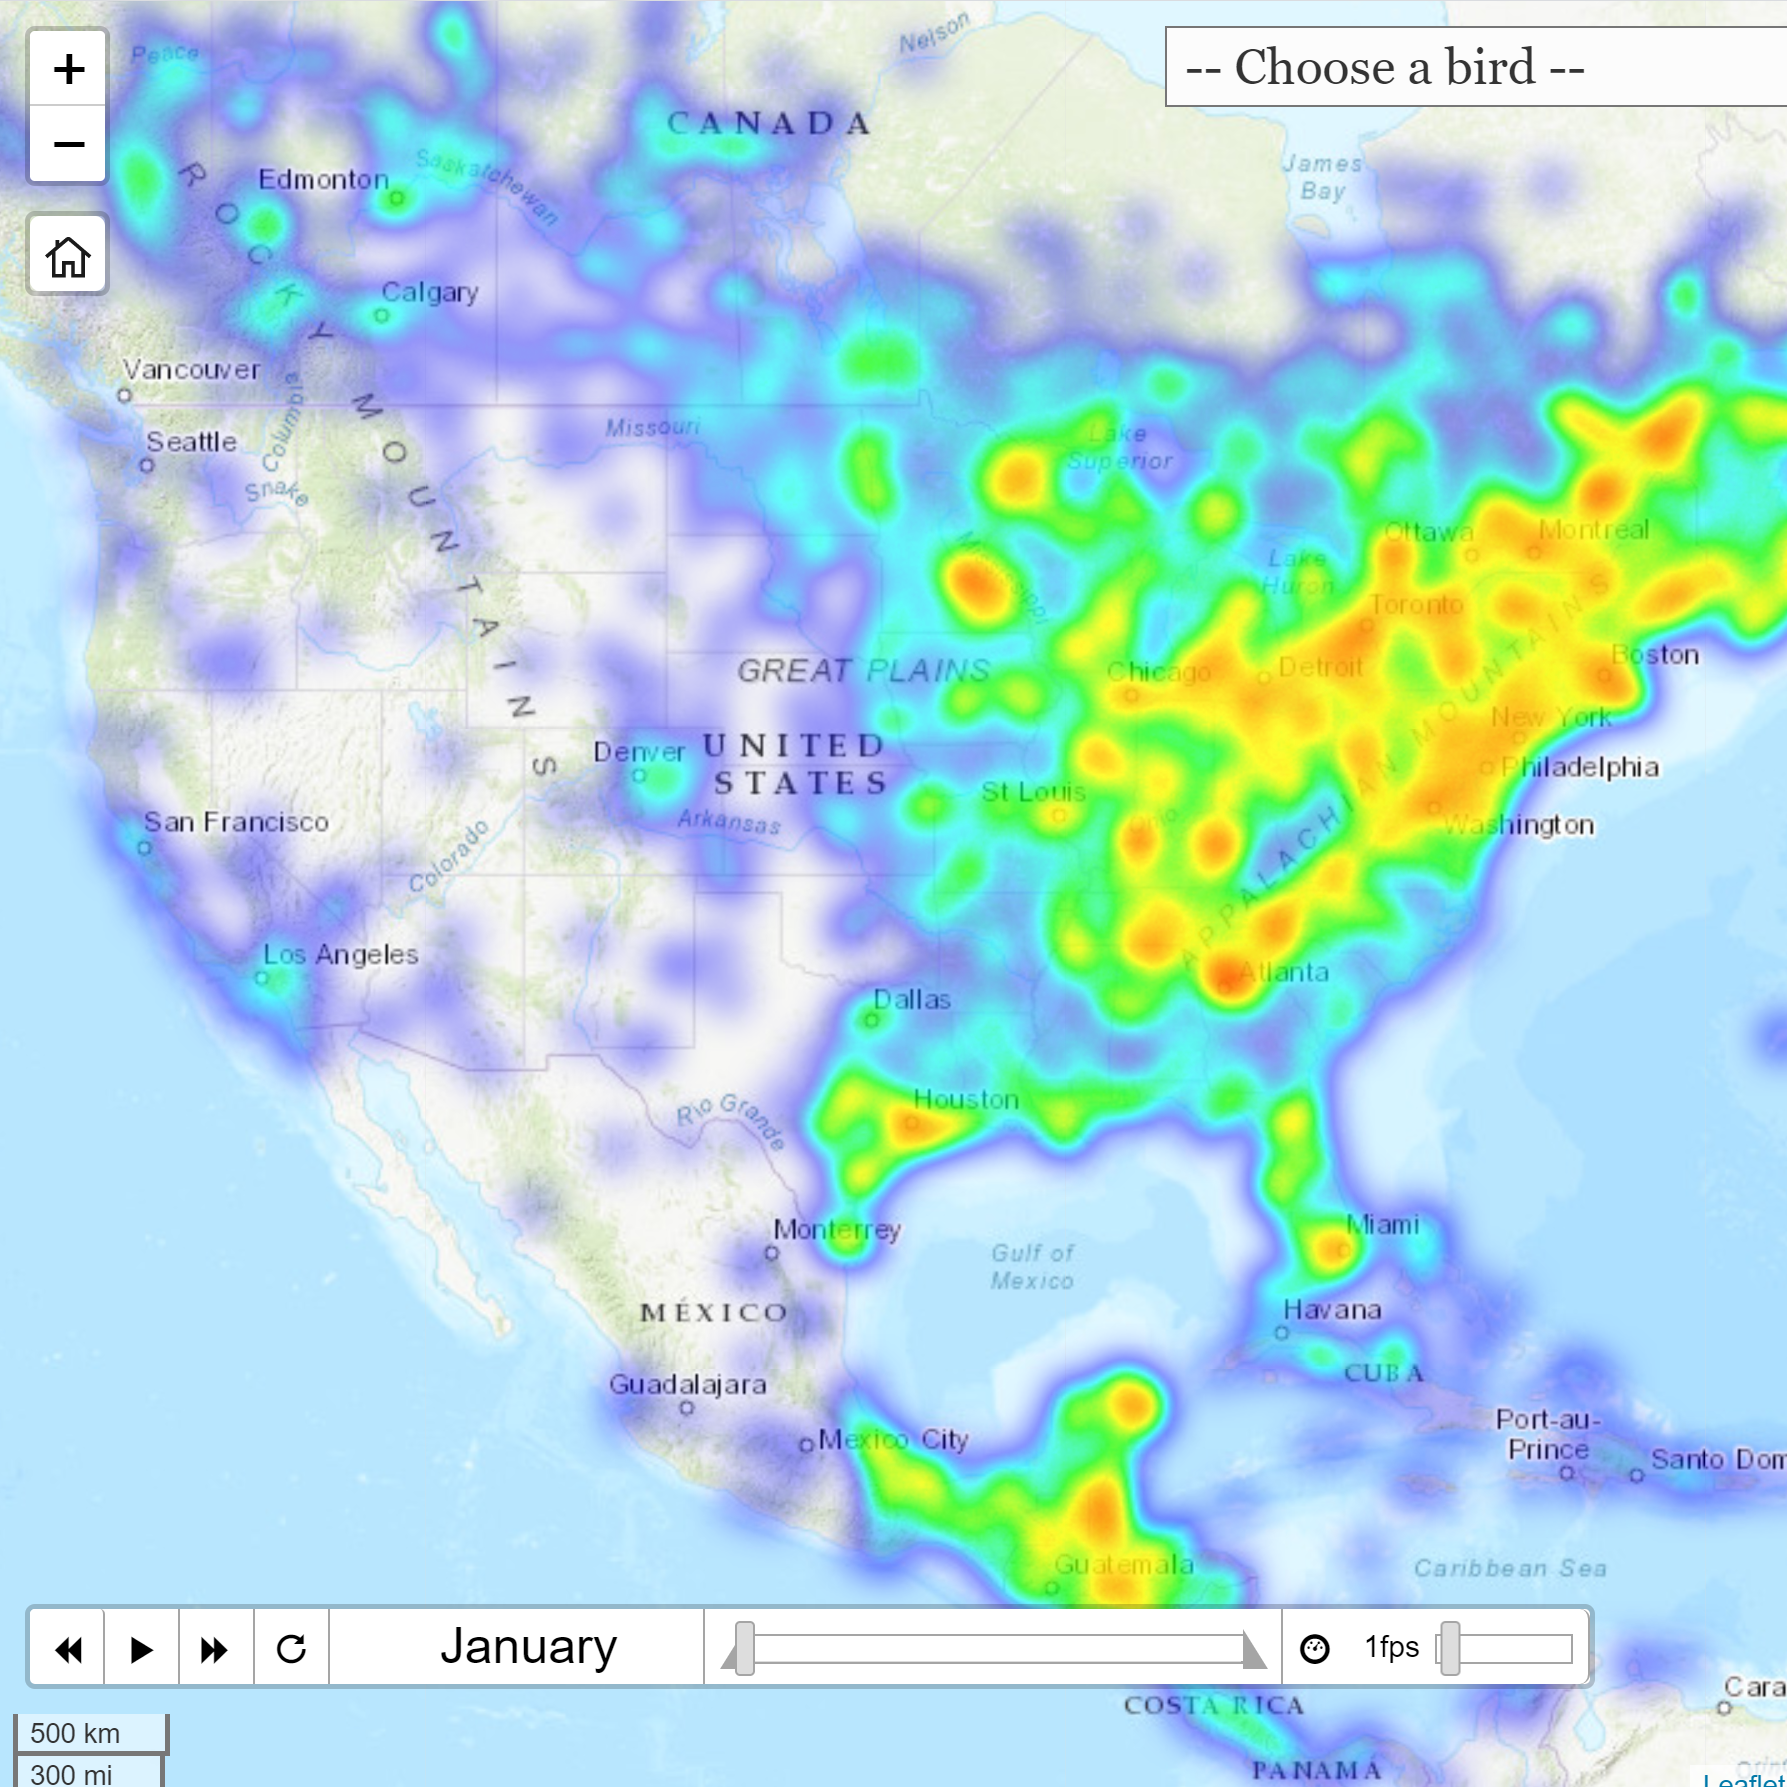
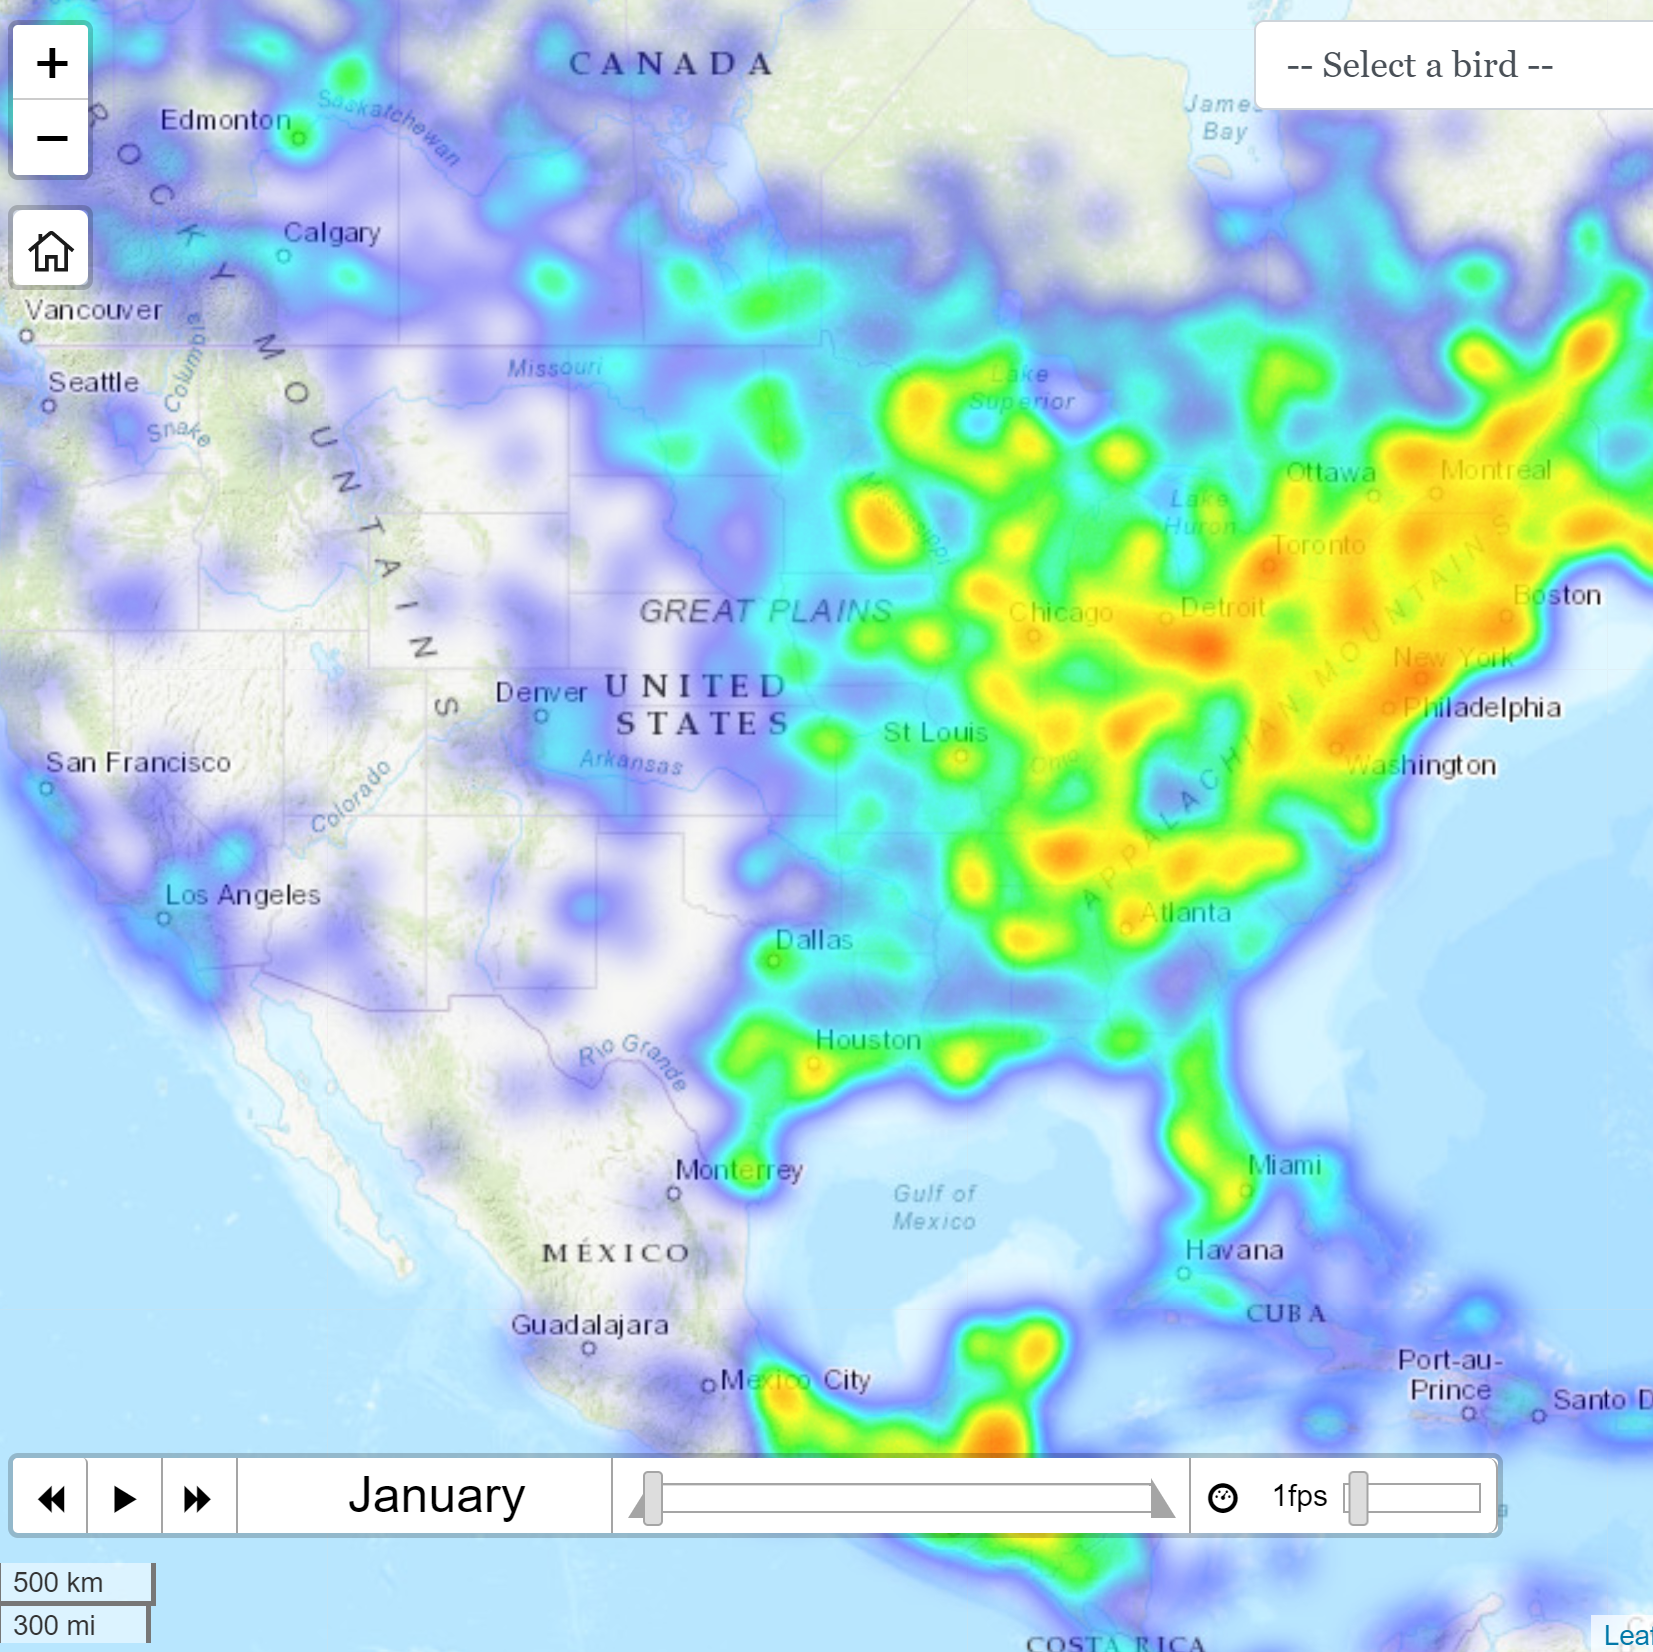
Summary of map

diff --git a/portfolio/bird-migration-heatmap.html b/portfolio/bird-migration-heatmap.html
@@ -54,16 +54,74 @@
                     <div class="col-md-12">
                         <h2 class="portfolio-map-title">Bird Migration Heatmap</h2>
                         <p class="portfolio-map-description">
-                            This web map originated out of a final project for Geography 573, Advanced Geocomputing and Geospatial Big Data Analytics.
-                            The original project scope was meant to use Python to analyze and visualize datasets that are usually too large 
-                            for more standard GIS technologies. web map was created through a Python script using the package Folium which allows for analysis/agggregation of
-                            large datasets and then output the data as time series heatmaps
+                            The full interactive web map: <a href="https://jseibel55.github.io/Bird-Migration-Heatmap/">Bird Migration Heatmap</a>
                         </p>
                         <p class="portfolio-map-description">
-                            The full interactive web map: <a href="https://jseibel55.github.io/The-Lost-People/">Bird Migrations Heatmap</a>
+                            This web map originated out of a final project for Geography 573, Advanced Geocomputing and Geospatial Big Data Analytics.
+                            The initial web map was generated through a Python script using the package Folium which allows for analysis/aggregation of
+                            large datasets and outputs the data as a time series heatmap. An example of the script I used to create an individual bird 
+                            heatmap animation can be seen below. The original project task was to use non-traditional mapping tools like Python 
+                            libraries to analyze a very large datasets. As I am an avid birder, I thought it would be interesting to explore 
+                            the migration patterns of birds across the United States. I have since expanded upon the original script to create a full 
+                            map tool that can select from multiple bird species. Currently I have limited the birds selectable in the tool to species 
+                            that I have worked with (either banded or nest surveyed/monitored) and migrate at least short distances. Hopefully I will work 
+                            with more bird species in the coming years and add more birds to the map!
                         </p>
-                        <a href="https://jseibel55.github.io/The-Lost-People/">
-                            <img src="../assets/maps/Bird-Migration-Heatmap.PNG" alt="The Lost People" class="portfolio-map-image">
+                        <p class="portfolio-map-description">
+                            Data that I used was acquired through <a href="https://ebird.org/home">eBird</a> from the <a href="https://www.birds.cornell.edu/home">Cornell Lab of Ornithology</a>, 
+                            which is the world's largest biodiversity-related citizen science project. More than 100 million bird sightings are contributed each 
+                            year by eBirders around the world. The collected data documents bird distribution, abundance, habitat use, and trends through 
+                            individual checklist. The data used in this animation was limited to 2015-2020 to minimize the size of data but still provide multiple 
+                            years for a migriation generalization of each bird represented. 
+                        </p>
+                        <pre>
+                            <code>
+import pandas as pd
+import folium
+from folium.plugins import HeatMap
+from folium.plugins import HeatMapWithTime
+import codecs
+
+# Creates a default html basemap
+def generateBaseMap(default_location=[32.748357, -81.723449], default_zoom_start=4):
+    base_map = folium.Map(location=default_location, control_scale=True, zoom_start=default_zoom_start)
+    return base_map
+
+bird_code = 'perfal'
+csv_name = 'CSV/'+bird_code+'_2015-2019.csv'
+
+# Convert text file to csv
+read_file = pd.read_csv (r'Data/raw/'+bird_code+'_2015_2019.txt', delimiter="\t", error_bad_lines=False)
+read_file.to_csv (csv_name, encoding='utf-8', index=False)
+
+# Filter out entries with 'X' in the observation count column and save over csv
+with codecs.open(csv_name, encoding = "utf8", errors ='replace') as csvfile:
+    df = pd.read_csv(csvfile, encoding="utf8", usecols = ['OBSERVATION DATE','LATITUDE','LONGITUDE','OBSERVATION COUNT'])  
+    df_clean = df[~(df == 'X').any(axis=1)]                
+    df_clean.to_csv (csv_name, encoding='utf-8', index=False)
+
+# Create a time series heatmap of the bird data
+with codecs.open(csv_name, encoding = "utf8", errors ='replace') as csvfile:
+    df = pd.read_csv(csvfile, encoding="utf8")
+
+    df['OBSERVATION DATE'] = pd.to_datetime(df['OBSERVATION DATE'], format='%Y/%m/%d')
+    df['month'] = df['OBSERVATION DATE'].apply(lambda x: x.month)
+
+    # Group observation counts by location and by month
+    df_month_list = []
+    for month in df.month.sort_values().unique():
+        df_month_list.append(df.loc[df.month == month, ['LATITUDE', 'LONGITUDE', 'OBSERVATION COUNT']].groupby(['LATITUDE', 'LONGITUDE']).sum().reset_index().values.tolist())
+
+    # Create the heatmap with time based off certain parameters and save the output
+    base_map = generateBaseMap(default_zoom_start=4)
+    m = HeatMapWithTime(df_month_list, radius=5, gradient={0.01: 'blue', 0.05: 'lime', 0.25: 'yellow', 0.5: 'orange', 1: 'red'}, min_opacity=0.5, max_opacity=0.8, use_local_extrema=True).add_to(base_map)
+    m.save('Data/Output/'+bird_code+'_migration_map.html')
+
+base_map
+                            </code>
+                        </pre>
+                        <a href="https://jseibel55.github.io/Bird-Migration-Heatmap/">
+                            <img src="../assets/maps/Bird-Migration-Heatmap.PNG" alt="Bird Migration Heatmap" class="portfolio-map-image">
                         </a>
                     </div>
                 </div>

diff --git a/css/style.css b/css/style.css
@@ -8,6 +8,15 @@ hr {
     border: none;
 }
 
+pre {
+    display: block;
+    font-family: monospace;
+    white-space: pre;
+    margin: 2em 0;
+    background-color: rgb(240, 240, 240);
+    padding: 0 0 0 1em;
+}
+
 /***** NAVBAR *****/
 .navbar-brand{
     font-size: 24px;
@@ -159,7 +168,7 @@ hr {
     margin: 30px 0 0 0;
 }
 .portfolio-map-image {
-    margin-top: 80px;
+    margin-top: 50px;
     width: 100%;
 }
 @media screen and (max-width: 600px) {
